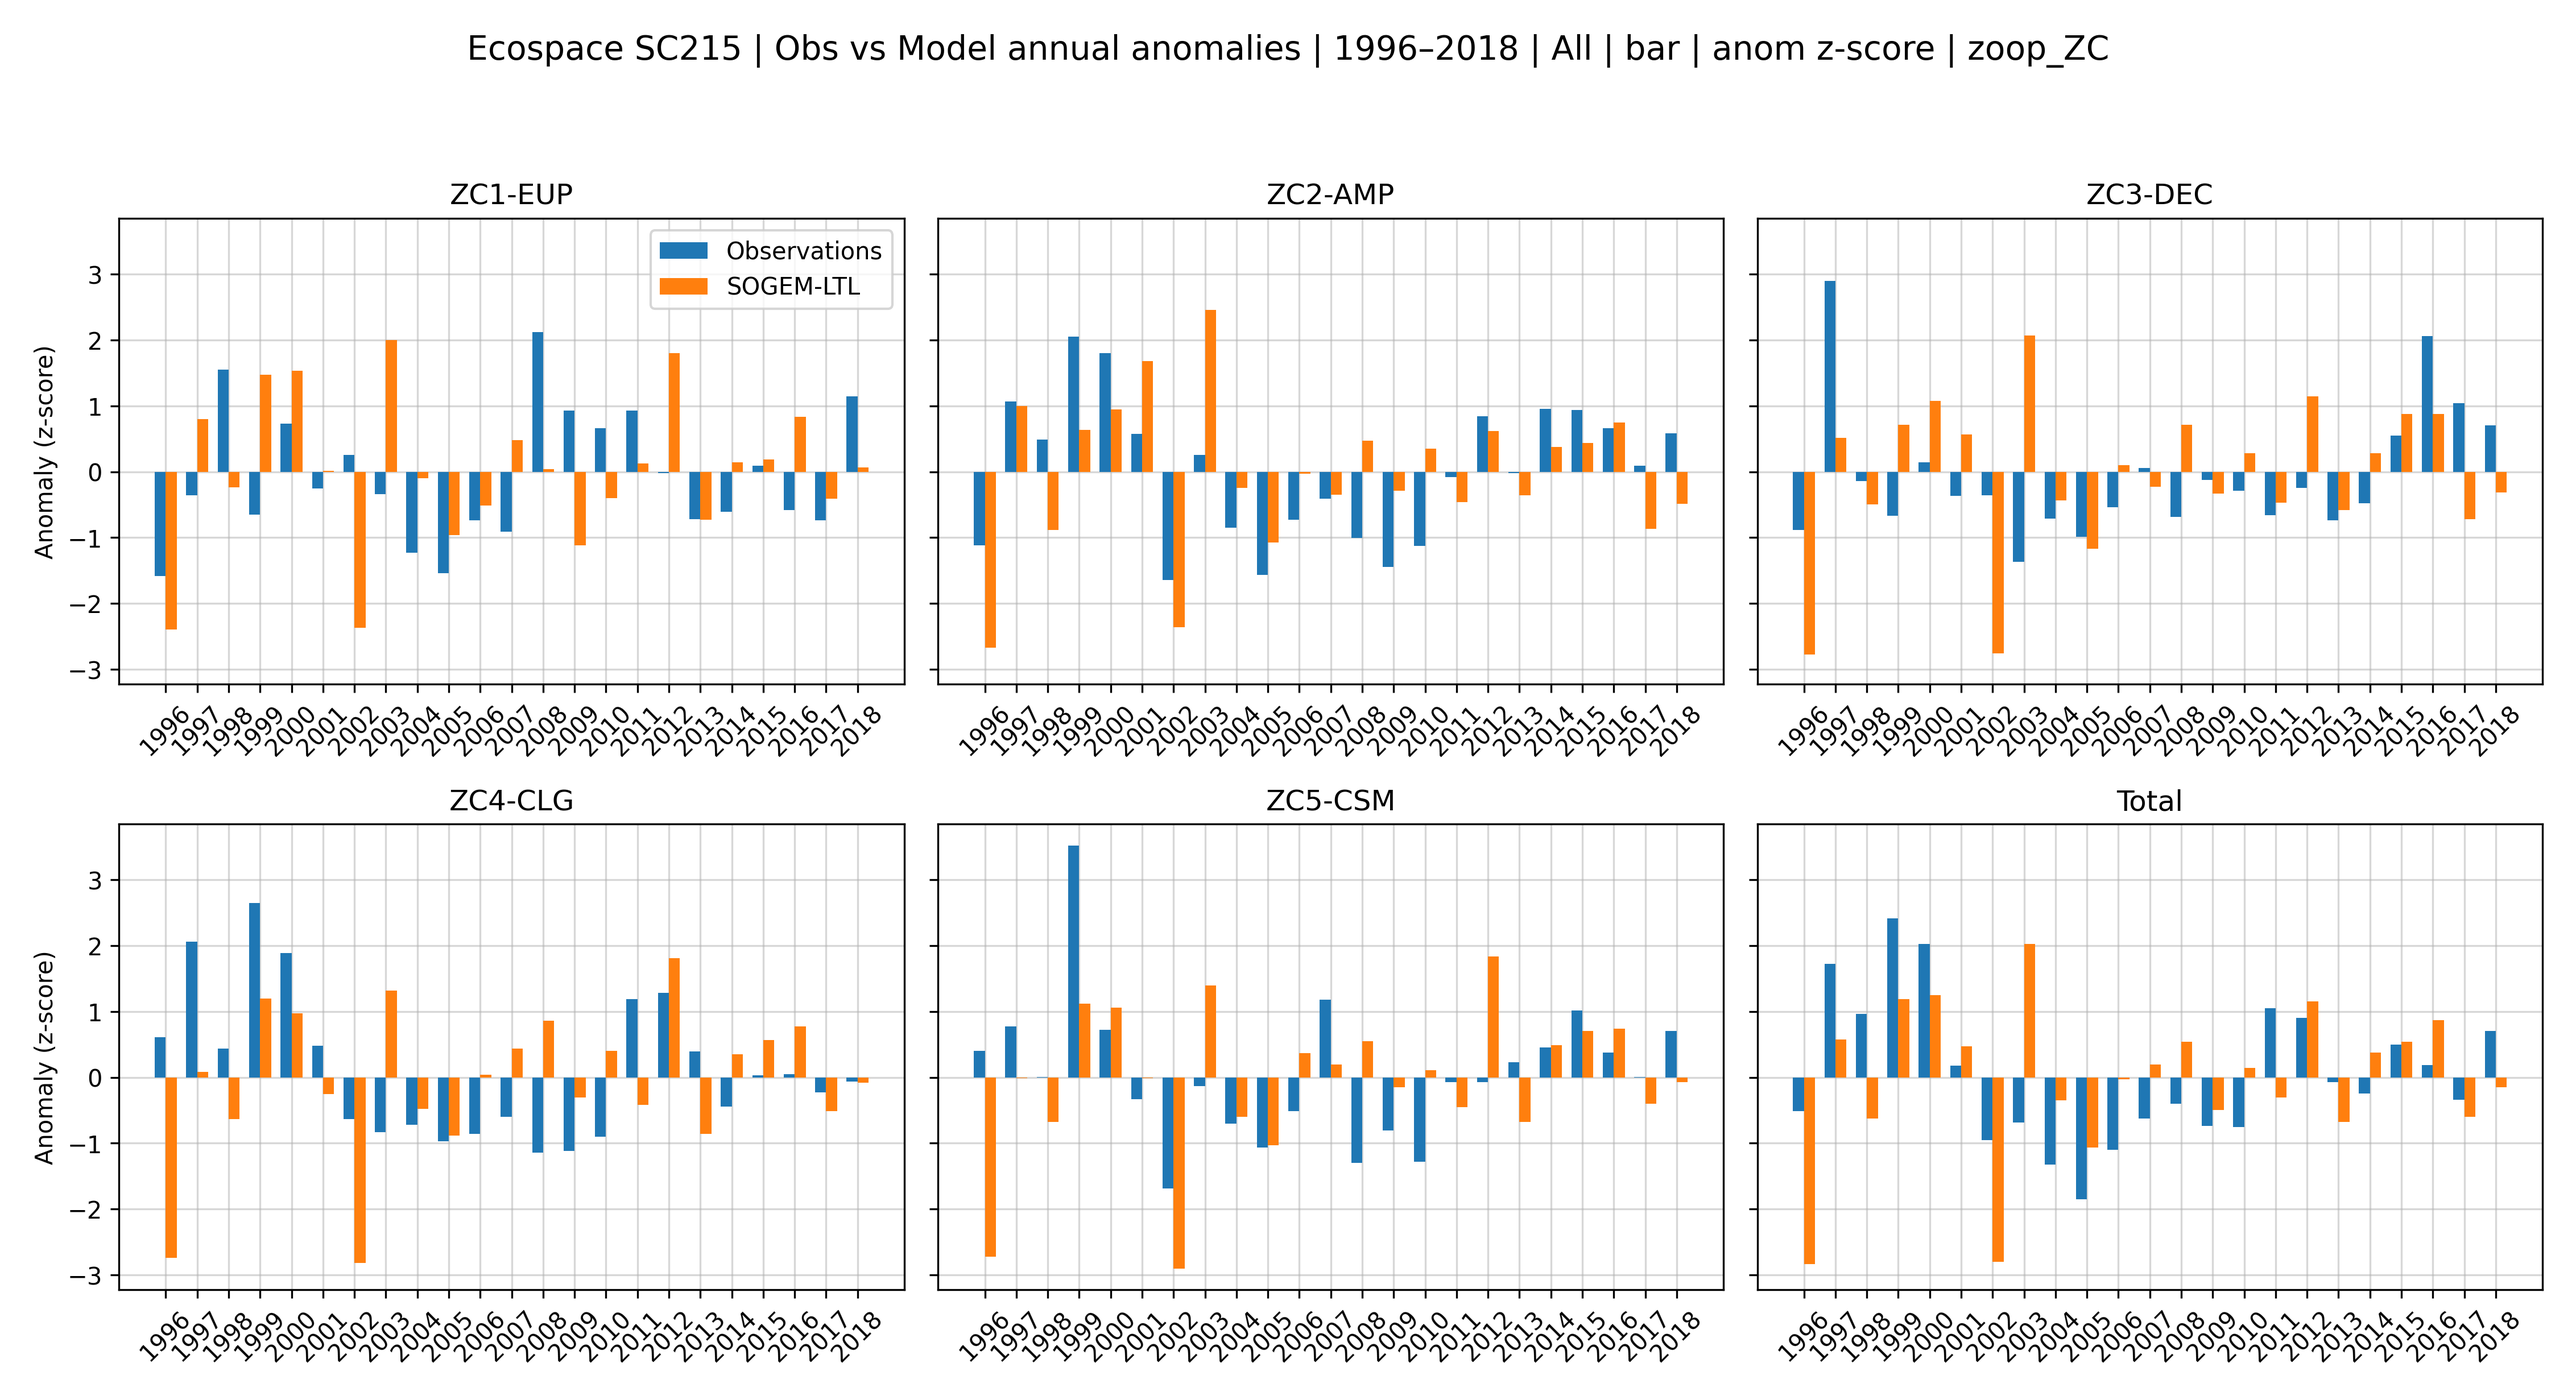
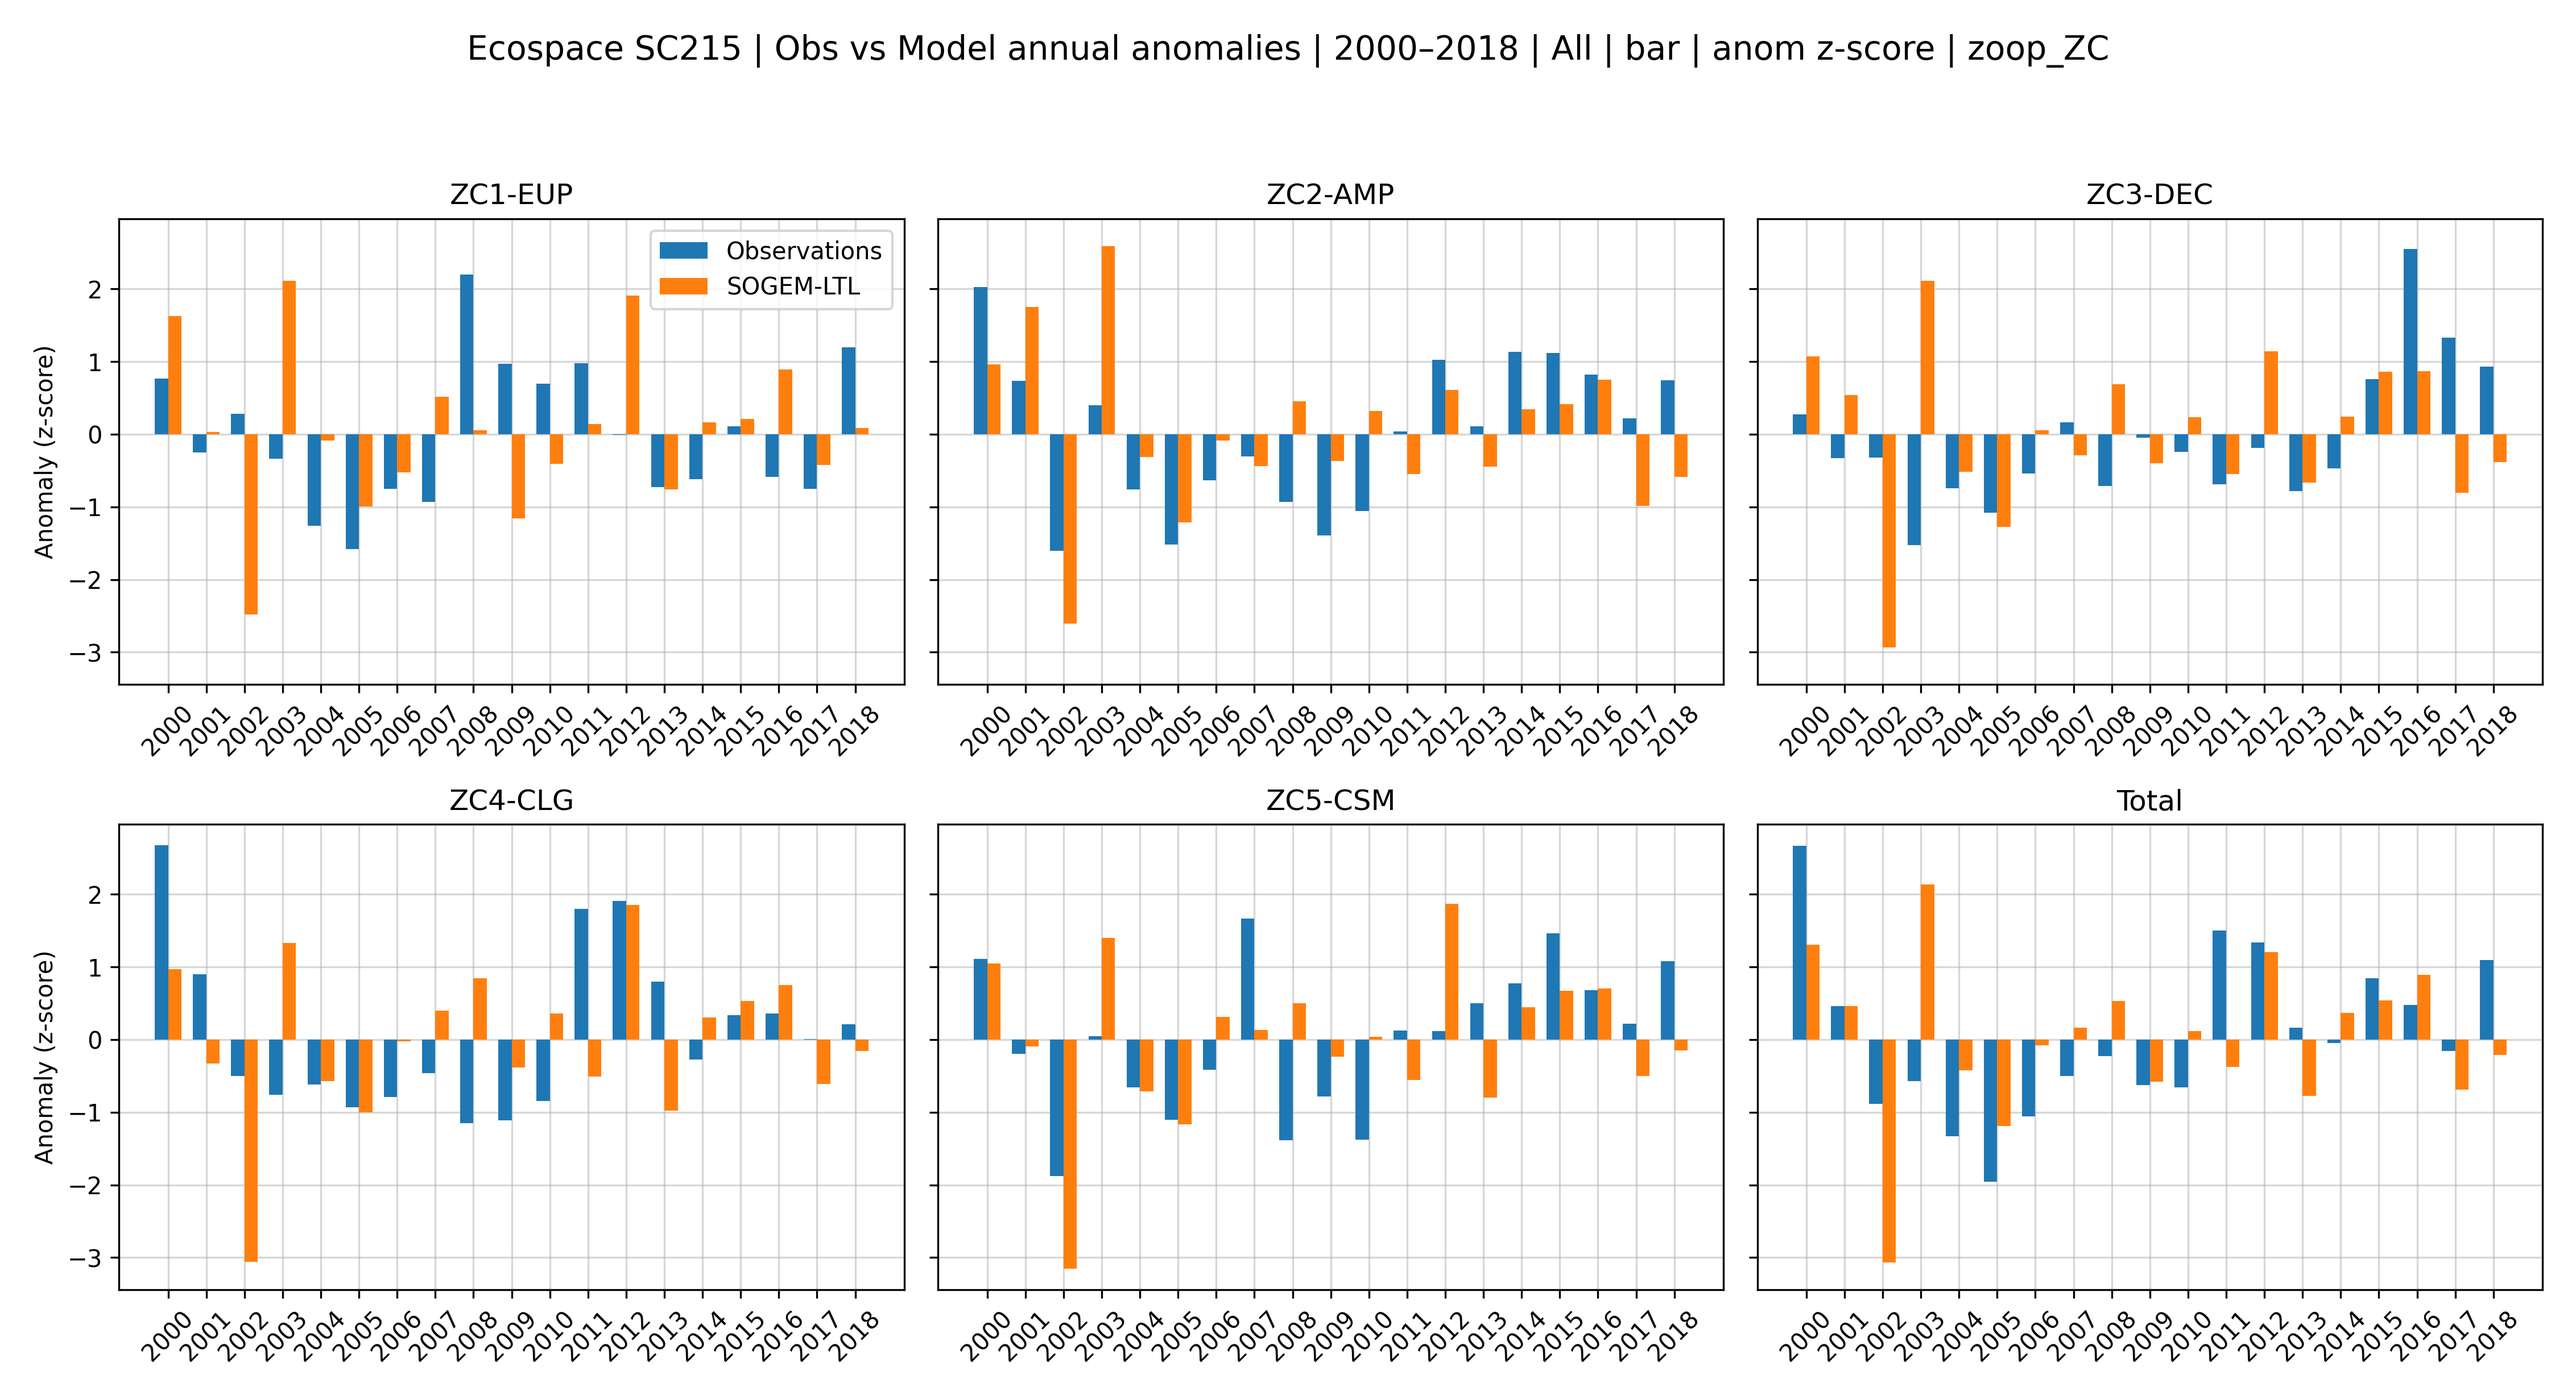
new plots for pub

diff --git a/scripts/PublicationScripts/ecospace_eval_5_zoop_eval.py b/scripts/PublicationScripts/ecospace_eval_5_zoop_eval.py
@@ -39,7 +39,7 @@ import matplotlib
 matplotlib.use("TkAgg")
 import matplotlib.pyplot as plt
 import seaborn as sns
-
+import string
 import netCDF4 as nc
 from datetime import datetime
 
@@ -75,8 +75,8 @@ class Eval5Config:
     NPGO_CSV: str = getattr(cfg, "NPGO_CSV", "npgo.csv")
 
     # YEARS
-    START_YEAR: int = getattr(cfg, "ZP_START_YEAR", 1980)
-    END_YEAR: int = getattr(cfg, "ZP_END_YEAR", 2018)
+    START_YEAR: int = getattr(cfg, "ZP_YEAR_START", 1980)
+    END_YEAR: int = getattr(cfg, "ZP_YEAR_END", 2018)
 
     # GROUPS (consistent w/ 5b/5c/5d)
     ZOOP_GROUPS: List[str] = field(default_factory=lambda: ["ZC1-EUP", "ZC2-AMP", "ZC3-DEC", "ZC4-CLG", "ZC5-CSM",
@@ -123,6 +123,10 @@ class Eval5Config:
     TOW_MIN_PROP: float = float(getattr(cfg, "ZP_TOW_MIN_PROP", 0.7))
     TOW_MIN_START_DEPTH_M: float = float(getattr(cfg, "ZP_TOW_MIN_START_DEPTH_M", 150.0))
     TOW_MAX_BOTTOM_DEPTH_M: Optional[float] = getattr(cfg, "ZP_TOW_MAX_BOTTOM_DEPTH_M", None)
+
+    # options for the two panel plot of seasonal anoms
+    PUB_TOTAL_PANEL: bool = getattr(cfg, "ZP_MAKE_PUB_TOTAL_PANEL", False)
+    PUB_PANEL_A_MODE: str = getattr(cfg, "ZP_PUB_PANEL_A_MODE", "anomaly_scatter")
 
 # ============================================================
 # Stage 1 — Match Zooplankton obs to Ecospace (ex-5b)
@@ -411,6 +415,16 @@ def panel_seasonal_boxplots(
             title = g
 
         ax.set_title(title)
+
+        panel_lab = f"({string.ascii_lowercase[i]})"
+        ax.text(
+            0.02, 0.98, panel_lab,
+            transform=ax.transAxes,
+            ha="left", va="top",
+            fontsize=12,
+            fontweight="bold"
+        )
+
         ax.set_xlabel("Season")
         ylabel = (
             "log10(g C m$^{-2}$ + offset)"
@@ -707,6 +721,241 @@ def plot_scatter_total_by_season(
     print(f"[INFO] Saved total-by-season scatter plot: {outpath}")
     return outpath
 
+
+def plot_pub_panel_total_single_season(
+    paired: pd.DataFrame,
+    *,
+    cfg5: Eval5Config,
+    season: str,
+    total_group: str = "Total",
+    label: str = "zoop_ZC",
+    outname: str = "pub_total_single_season",
+    title_text: str = "Total crustaceans",
+    log10_scatter: bool = True,
+) -> str:
+    """
+    Publication-style 2-panel figure for a single season:
+      (a) tow-level OR seas-lev anom Obs vs Model scatter
+      (b) annual anomaly bar plot (Obs vs Model)
+    Intended for the crustacean pass, where Total == sum(ZC*).
+    """
+
+    panel_a_mode = str(getattr(cfg5, "PUB_PANEL_A_MODE", "anomaly_scatter")).strip().lower()
+
+    annual = compute_anomalies_paired(
+        paired,
+        season=season,
+        year_range=(cfg5.START_YEAR, cfg5.END_YEAR),
+        log_transform=cfg5.LOG_TRANSFORM,
+        clim_mode=cfg5.ANOM_CLIM_MODE,
+        log_offset=cfg5.LOG_OFFSET,
+        year_weight_power=cfg5.ANOM_CLIM_WEIGHT_POWER,
+        year_weight_cap=cfg5.ANOM_CLIM_WEIGHT_CAP,
+        min_tows_per_year=cfg5.ANOM_CLIM_MIN_TOWS_PER_YEAR,
+        eps_std=cfg5.ANOM_CLIM_EPS_STD,
+    )
+    annual = annual[annual["group"] == total_group].copy()
+
+    counts = counts_by_season_year_from_paired(
+        paired,
+        season=season,
+        group_for_counts=total_group,
+        unique_index=True,
+        valid_pairs_only=True,
+    )
+
+    # -----------------------------
+    # Figure
+    # -----------------------------
+    fig, axes = plt.subplots(
+        2, 1,
+        figsize=(8.5, 9.0),
+        gridspec_kw={"height_ratios": [1.0, 1.15]},
+        constrained_layout=False,
+    )
+    ax_scatter, ax_bar = axes
+
+    # =========================================================
+    # TOP PANEL: choose between tow-level scatter or anomaly scatter
+    # =========================================================
+    if panel_a_mode == "tow_scatter":
+        d = paired.copy()
+        d = d.dropna(subset=["group", "obs_biomass", "model_biomass"])
+        d = d[(d["group"] == total_group) & (d["season"] == season)].copy()
+
+        if log10_scatter:
+            eps = 1e-12
+            d = d[(d["obs_biomass"] > 0) & (d["model_biomass"] > 0)].copy()
+            d["x"] = np.log10(d["obs_biomass"] + eps)
+            d["y"] = np.log10(d["model_biomass"] + eps)
+            xlab = "Observed biomass (log10 g C m$^{-2}$)"
+            ylab = "Model biomass (log10 g C m$^{-2}$)"
+        else:
+            d["x"] = d["obs_biomass"]
+            d["y"] = d["model_biomass"]
+            xlab = "Observed biomass (g C m$^{-2}$)"
+            ylab = "Model biomass (g C m$^{-2}$)"
+
+        ax_scatter.scatter(d["x"], d["y"], s=22, alpha=0.7)
+
+        if len(d) > 0:
+            lo = min(d["x"].min(), d["y"].min())
+            hi = max(d["x"].max(), d["y"].max())
+            pad = 0.05 * (hi - lo if hi > lo else 1.0)
+            ax_scatter.plot([lo - pad, hi + pad], [lo - pad, hi + pad], "--", color="k", lw=1)
+            ax_scatter.set_xlim(lo - pad, hi + pad)
+            ax_scatter.set_ylim(lo - pad, hi + pad)
+
+            if len(d) > 1:
+                r = np.corrcoef(d["x"], d["y"])[0, 1]
+                ax_scatter.set_title(f"{season}: tow-level scatter  (r = {r:.2f}, n = {len(d)})")
+            else:
+                ax_scatter.set_title(f"{season}: tow-level scatter  (n = {len(d)})")
+        else:
+            ax_scatter.set_title(f"{season}: tow-level scatter  (n = 0)")
+
+        ax_scatter.set_xlabel(xlab)
+        ax_scatter.set_ylabel(ylab)
+
+    elif panel_a_mode == "anomaly_scatter":
+        d = annual.dropna(subset=["obs_anom", "model_anom"]).copy()
+
+        ax_scatter.scatter(d["obs_anom"], d["model_anom"], s=28, alpha=0.8)
+
+        if len(d) > 0:
+            lo = min(d["obs_anom"].min(), d["model_anom"].min())
+            hi = max(d["obs_anom"].max(), d["model_anom"].max())
+            pad = 0.05 * (hi - lo if hi > lo else 1.0)
+
+            ax_scatter.plot([lo - pad, hi + pad], [lo - pad, hi + pad], "--", color="k", lw=1)
+            ax_scatter.set_xlim(lo - pad, hi + pad)
+            ax_scatter.set_ylim(lo - pad, hi + pad)
+
+            if len(d) > 1:
+                r = np.corrcoef(d["obs_anom"], d["model_anom"])[0, 1]
+                ax_scatter.set_title(f"{season}: annual anomaly scatter  (r = {r:.2f}, n = {len(d)})")
+            else:
+                ax_scatter.set_title(f"{season}: annual anomaly scatter  (n = {len(d)})")
+        else:
+            ax_scatter.set_title(f"{season}: annual anomaly scatter  (n = 0)")
+
+        ax_scatter.set_xlabel("Observed anomaly (z-score)")
+        ax_scatter.set_ylabel("Model anomaly (z-score)")
+
+        # Optional: label points by year for publication clarity
+        for _, row in d.iterrows():
+            ax_scatter.text(
+                row["obs_anom"],
+                row["model_anom"],
+                str(int(row["year"])),
+                fontsize=7,
+                alpha=0.75,
+            )
+
+    else:
+        raise ValueError(
+            f"Unknown PUB_PANEL_A_MODE='{panel_a_mode}'. "
+            "Use 'tow_scatter' or 'anomaly_scatter'."
+        )
+
+    ax_scatter.grid(True, alpha=0.3)
+    ax_scatter.text(
+        0.01, 0.98, "(a)",
+        transform=ax_scatter.transAxes,
+        ha="left", va="top",
+        fontsize=12, fontweight="bold"
+    )
+    # =========================================================
+    # BOTTOM PANEL: annual anomaly bars
+    # =========================================================
+    years = sorted(annual["year"].unique().tolist())
+    w = 0.38
+
+    if len(years) > 0:
+        d_idx = annual.set_index("year")
+        x = np.arange(len(years))
+        y_obs = [d_idx.loc[yr, "obs_anom"] if yr in d_idx.index else np.nan for yr in years]
+        y_mod = [d_idx.loc[yr, "model_anom"] if yr in d_idx.index else np.nan for yr in years]
+
+        ax_bar.axhline(0, lw=1, linestyle="--", alpha=0.7, color="k", zorder=1)
+        ax_bar.bar(x - w/2, y_obs, width=w, label="Observations", zorder=2)
+        ax_bar.bar(x + w/2, y_mod, width=w, label="SOGEM-LTL", zorder=2)
+
+        ax_bar.set_xticks(x)
+        ax_bar.set_xticklabels([str(y) for y in years], rotation=45, ha="right")
+        ax_bar.set_ylabel("Anomaly (z-score)")
+        ax_bar.set_xlabel("Year")
+        ax_bar.set_title(f"{season}: annual anomalies")
+        ax_bar.grid(True, axis="y", alpha=0.3, zorder=0)
+        ax_bar.legend()
+
+        if cfg5.SHOW_COUNTS and counts is not None and not counts.empty:
+            cmap = dict(zip(counts["year"].astype(int), counts["n_tows"]))
+            ymin, ymax = ax_bar.get_ylim()
+            yrange = ymax - ymin if ymax > ymin else 1.0
+            for j, yr in enumerate(years):
+                n = cmap.get(int(yr))
+                if n is None:
+                    continue
+                vals = [v for v in [y_obs[j], y_mod[j]] if pd.notna(v)]
+                if not vals:
+                    continue
+                y_top = np.nanmax(vals)
+                ax_bar.text(
+                    j, y_top + 0.04 * yrange, f"{int(n)}",
+                    ha="center", va="bottom", fontsize=8
+                )
+    else:
+        ax_bar.set_title(f"{season}: annual anomalies  (no data)")
+        ax_bar.axhline(0, lw=1, linestyle="--", alpha=0.7, color="k")
+
+    ax_bar.text(
+        0.01, 0.98, "(b)",
+        transform=ax_bar.transAxes,
+        ha="left", va="top",
+        fontsize=12, fontweight="bold"
+    )
+
+    # -----------------------------
+    # Figure title and save
+    # -----------------------------
+    st = None
+    if getattr(cfg5, "ADD_FIG_SUPTITLE", True):
+        st = fig.suptitle(
+            _fig_title(
+                cfg5,
+                kind="Publication panel",
+                years=(cfg5.START_YEAR, cfg5.END_YEAR),
+                season=season,
+                suffix=title_text,
+                label=label,
+                plot_type="scatter + anomaly bars",
+            ),
+            y=0.995,
+            fontsize=14,
+        )
+        fig.tight_layout(rect=[0, 0, 1, 0.96])
+    else:
+        fig.tight_layout()
+
+    os.makedirs(cfg5.FIGSOUT_P, exist_ok=True)
+    outpath = os.path.join(
+        cfg5.FIGSOUT_P,
+        f"ecospace_{cfg5.ecospace_code}_zoop_{outname}_{season}_{label}.png",
+    )
+
+    fig.savefig(
+        outpath,
+        dpi=300,
+        bbox_inches="tight",
+        pad_inches=0.2,
+        bbox_extra_artists=([st] if st is not None else None),
+    )
+    plt.show()
+    plt.close(fig)
+
+    print(f"[INFO] Saved publication panel: {outpath}")
+    return outpath
 
 def visualize_and_stats(matched_csv: str, cfg5: Eval5Config) -> str:
     print("[5c] Visualizing & computing skill stats…")
@@ -2006,6 +2255,18 @@ def anomaly_comparisons(
                 label=f"zoop_{pass_label}",
                 outname=f"anomaly_bars_total4panel_{pass_label}",
                 title_text="Total crustaceans",
+            )
+
+        if pass_label == "ZC" and cfg5.PUB_TOTAL_PANEL:
+            plot_pub_panel_total_single_season(
+                paired,
+                cfg5=cfg5,
+                season=cfg5.ANOM_SEASON_CHOICE,
+                total_group="Total",
+                label=f"zoop_{pass_label}",
+                outname="pub_total_single_season",
+                title_text="Total crustaceans",
+                log10_scatter=cfg5.SCATTER_LOG10,
             )
 
         for season in seasons_plus_all:

diff --git a/scripts/PublicationScripts/ecospace_eval_config.py b/scripts/PublicationScripts/ecospace_eval_config.py
@@ -327,6 +327,10 @@ ZP_ANOM_ALL_SEASONS = True     # True => loop Winter/Spring/Summer/Fall
 ZP_MAKE_SCATTER = True          # make scatter figs too
 ZP_SCATTER_LOG10 = True         # tow-level scatter uses log10 axes
 
+# for the two-panel plot for pub - GO
+ZP_MAKE_PUB_TOTAL_PANEL = True
+ZP_PUB_PANEL_A_MODE = "anomaly_scatter"   # "tow_scatter" or "anomaly_scatter"
+
 ZP_YEAR_START = 2000
 ZP_YEAR_END   = 2018
 
